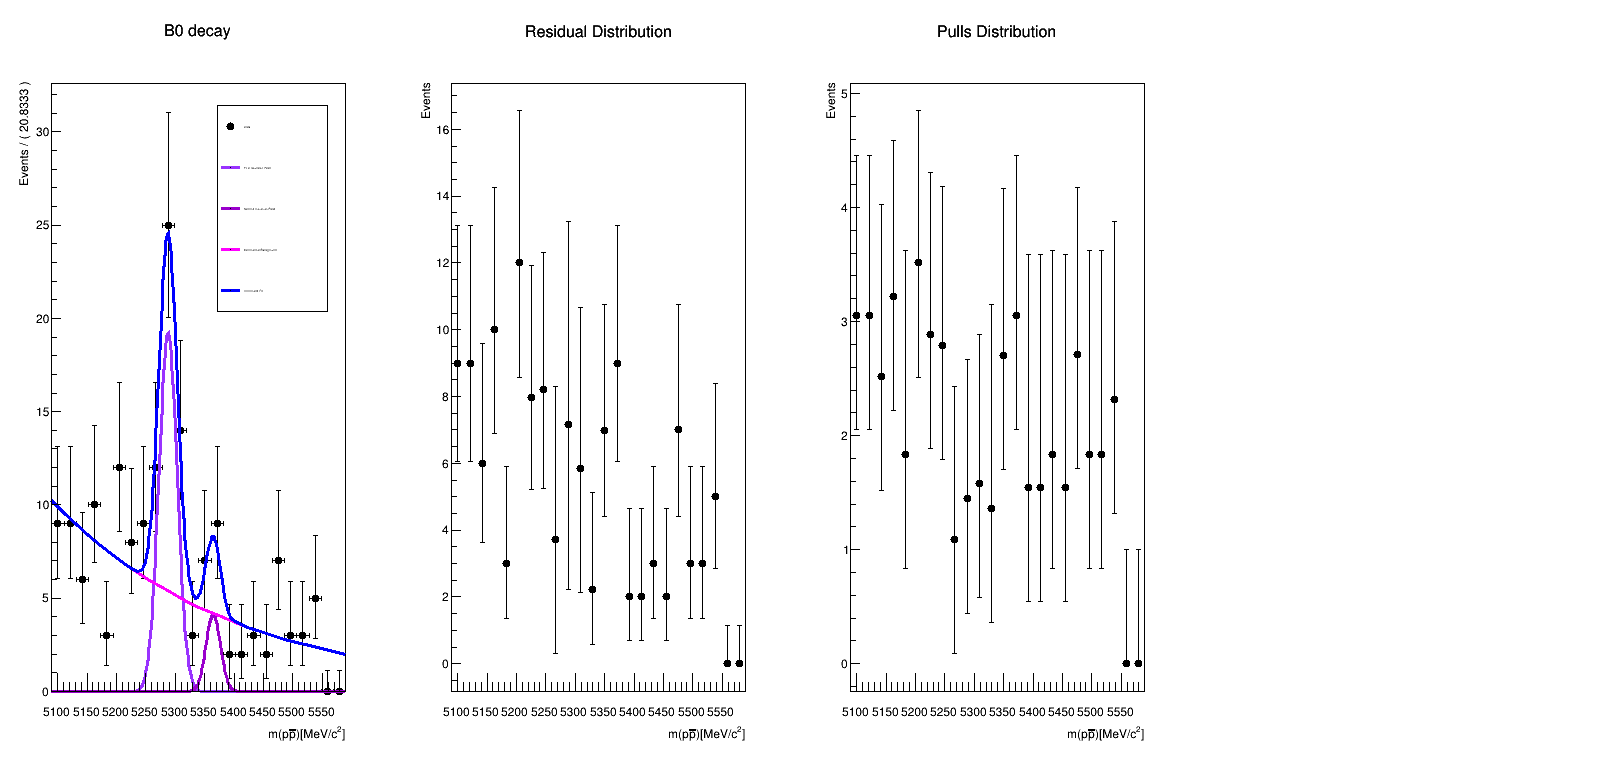
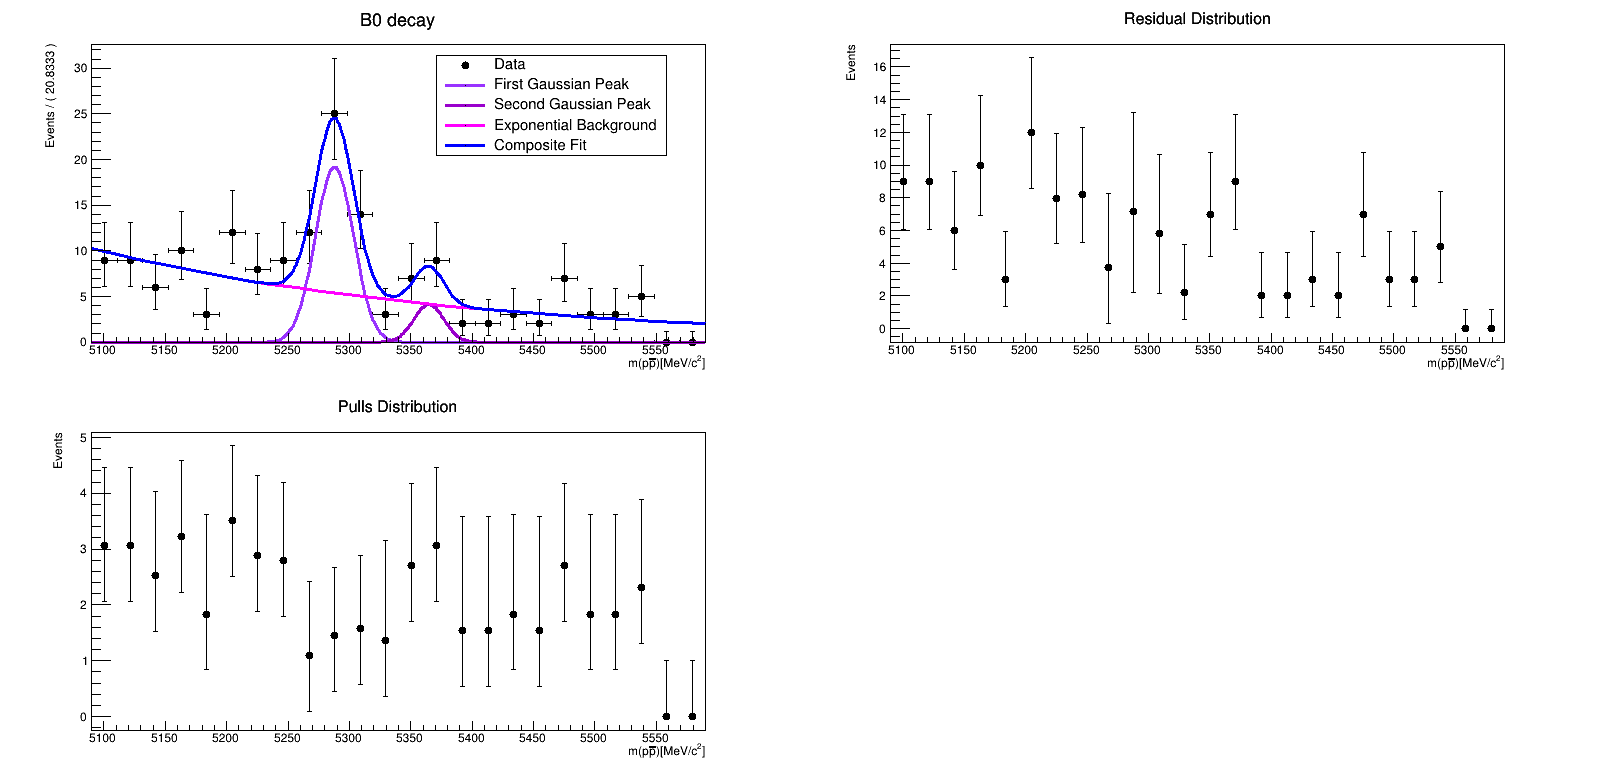
B0 decay ready to submit

diff --git a/B0_decay_ctl.cpp b/B0_decay_ctl.cpp
@@ -81,41 +81,36 @@ int B0_decay_ctl() {
   RooDataSet combData("combData", "combined data", RooArgSet(x, bg), Index(sample), Import({{"Physics", data}, {"Control", data_ctl}}));
   RooSimultaneous simPdf("simPdf", "simultaneous pdf", {{"Physics", &model}, {"Control", &model_ctl}}, sample);
 
-  // Fitting 
-  // RooFitResult* fit_res = model.fitTo(*data, Save());
-  // fit_res->Print();
-
-  // RooFitResult* fit_res = model_ctl.fitTo(*data_ctl, Save());
-  // fit_res->Print();
-
+  // Simultaneous fit
   RooFitResult* comb_fit = simPdf.fitTo(combData, Save());
   comb_fit->Print();
 
-  // Make a frame for the physics sample
+  // Plotting physics sample
   RooPlot *frame1 = x.frame(Title("Physics sample"));
- 
-  // Plot all data tagged as physics sample
   combData.plotOn(frame1, Cut("sample==sample::Physics"));
+  frame1->GetXaxis()->SetTitle("m(p#bar{p})[MeV/c^{2}]");
 
-  // Plot "physics" slice of simultaneous pdf
+  // Plotting "physics" slice of simultaneous pdf
   simPdf.plotOn(frame1, Slice(sample, "Physics"), ProjWData(sample, combData));
   simPdf.plotOn(frame1, Slice(sample, "Physics"), Components("bkg"), ProjWData(sample, combData), LineStyle(kDashed));
 
-  // Plot "sample" slice of simultaneous pdf
+  // Plotting "sample" slice of simultaneous pdf
   RooPlot *frame2 = x.frame(Title("Control sample")); 
   RooAbsData* slicedData{combData.reduce(Cut("sample==sample::Control"))};
   slicedData->plotOn(frame2);
   simPdf.plotOn(frame2, ProjWData(sample, *slicedData));
   simPdf.plotOn(frame2, Components("model_ctl"), ProjWData(sample, *slicedData), LineStyle(kDashed));
+  frame2->GetXaxis()->SetTitle("m(p#bar{p})[MeV/c^{2}]");
  
-  // The same plot for all the phase space. Here, we can just use the original
-  // combined dataset.
+  // Plotting both samples
   RooPlot *frame3 = x.frame(Bins(24), Title("Both samples"));
   combData.plotOn(frame3);
   simPdf.plotOn(frame3, ProjWData(sample, combData));
   simPdf.plotOn(frame3, Components("bkg, model_ctl"), ProjWData(sample, combData),
                 LineStyle(kDashed));
- 
+  frame3->GetXaxis()->SetTitle("m(p#bar{p})[MeV/c^{2}]");
+
+  // Creating canvas and saving plot 
   TCanvas *c1 = new TCanvas("B0_decay_ctl", "B0 decay control model", 1200, 400);
   c1->Divide(3);
   auto draw = [&](int i, RooPlot & frame) {
@@ -127,6 +122,8 @@ int B0_decay_ctl() {
   draw(1, *frame1);
   draw(2, *frame2);
   draw(3, *frame3);
+
+  c1->Print("B0_decay_ctl.png");
   
   return 0;
 }

diff --git a/B0_decay.cpp b/B0_decay.cpp
@@ -96,7 +96,7 @@ int B0_decay() {
 
   //Plotting
   TCanvas *c1 = new TCanvas("c1", "B0_decay", 1600, 800);
-  c1->Divide(4);
+  c1->Divide(2,2);
   
   c1->cd(1);
   xframe->Draw(); 
